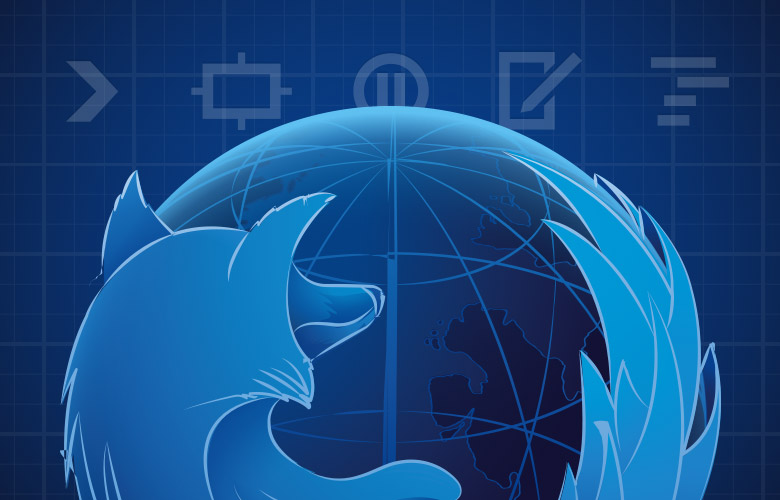
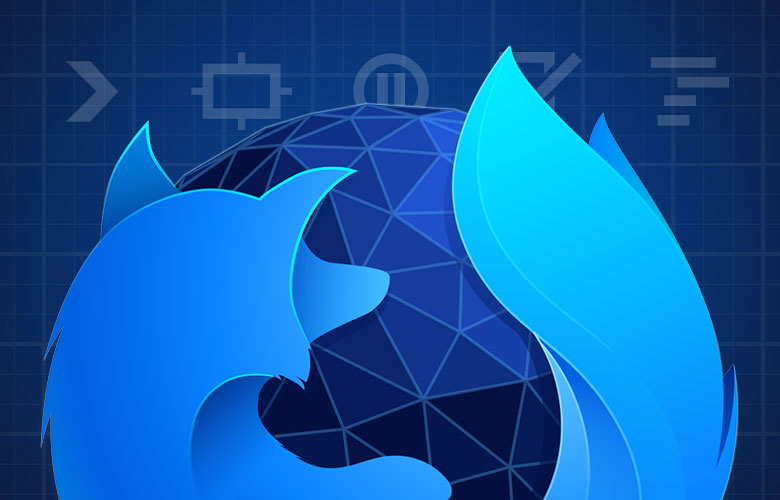
Fix Bug 1399665 - Update Developer Edition, DevTools and Roadshow tiles on /Developer/

diff --git a/bedrock/mozorg/templates/mozorg/developer/index.html b/bedrock/mozorg/templates/mozorg/developer/index.html
@@ -52,18 +52,18 @@
       <div class="developer-tools card card-image-large">
         <div class="card-content-wrapper">
           <div class="card-content">
-            <a href="{{ url('firefox.developer') }}" data-link-name="Firefox DevTools" data-link-type="link" data-link-position="Firefox DevTools">
-              <h3 class="card-title">{{ _('Firefox DevTools') }}</h3>
+            <a href="{{ url('firefox.developer') }}" data-link-name="Firefox Quantum: Developer Edition" data-link-type="link" data-link-position="Main Hero">
+              <h3 class="card-title">{{ _('Firefox Quantum: Developer Edition') }}</h3>
             </a>
 
             <p>
             {% trans %}
-              Modern tools for Web development.
+              Get the latest features, fast performance, and the development tools you need to build for the open web.
             {% endtrans %}
             </p>
 
-            <a href="{{ url('firefox.developer') }}" class="cta-link" data-link-name="Explore DevTools" data-link-type="link" data-link-position="Firefox DevTools">
-              {{ _('Explore DevTools') }}
+            <a href="{{ url('firefox.developer') }}" class="cta-link" data-link-name="Download Developer Edition" data-link-type="link" data-link-position="Main Hero">
+              {{ _('Download Developer Edition') }}
             </a>
           </div>
         </div> {#--/.card-content-wrapper--#}
@@ -94,7 +94,7 @@
         </div>
 
         <div class="card">
-          <a class="card-image" href="{{ url('firefox.developer') }}" data-link-type="link" data-link-position="Developer resources" data-link-name="Firefox DevTools">
+          <a class="card-image" href="https://developer.mozilla.org/docs/Tools" data-link-type="link" data-link-position="Developer resources" data-link-name="Firefox DevTools">
             {{ lazy_image('img/mozorg/developer/hub/resource-devtools.jpg', lazy_image_placeholder) }}
             <h3 class="card-title">{{ _('Firefox DevTools') }}</h3>
           </a>
@@ -104,7 +104,7 @@
           </div>
 
           <p class="card-cta">
-            <a href="{{ url('firefox.developer') }}" class="cta-link" data-link-type="link" data-link-position="Developer resources" data-link-name="Learn more">{{ _('Learn more') }}</a>
+            <a href="https://developer.mozilla.org/docs/Tools" class="cta-link" data-link-type="link" data-link-position="Developer resources" data-link-name="Explore DevTools">{{ _('Explore DevTools') }}</a>
           </p>
         </div>
 
@@ -150,7 +150,7 @@
       <ul class="news-feed">
         <li>
           <article class="entry">
-            <a class="entry-block" rel="bookmark" href="https://hacks.mozilla.org/2017/02/devroadshow/?utm_source=www.mozilla.org&amp;utm_medium=referral&amp;utm_campaign=developer-hub" data-link-name="Developer Roadshow" data-link-type="link" data-link-position="Events">
+            <a class="entry-block" rel="bookmark" href="https://github.com/mozilla/devroadshow2017" data-link-name="Developer Roadshow" data-link-type="link" data-link-position="Events">
               <img src="{{ static('img/mozorg/developer/hub/event-roadshow.jpg') }}" alt="">
               <h3 class="entry-title">{{ _('Developer Roadshow') }}</h3>
             </a>
@@ -158,7 +158,7 @@
               <p>{{ _('Mozilla-focused events for people who build the Web.') }}</p>
             </div>
             <p class="entry-cta">
-              <a href="https://hacks.mozilla.org/2017/02/devroadshow/?utm_source=www.mozilla.org&amp;utm_medium=referral&amp;utm_campaign=developer-hub" class="cta-link" data-link-name="See dates" data-link-type="link" data-link-position="Events">{{ _('See dates') }}</a>
+              <a href="https://github.com/mozilla/devroadshow2017" class="cta-link" data-link-name="See dates" data-link-type="link" data-link-position="Events">{{ _('See dates') }}</a>
             </p>
           </article>
         </li>

diff --git a/media/css/mozorg/developer/index.scss b/media/css/mozorg/developer/index.scss
@@ -298,8 +298,7 @@ main .content {
 
 .developer-tools {
     .card-content-wrapper {
-        @include background-size(100%, auto);
-        background-image: url('/media/img/mozorg/developer/hub/developer-tools-hero.png');
+        @include at2x('/media/img/mozorg/developer/hub/developer-tools-hero.png', 1250px, 365px);
     }
 }
 
